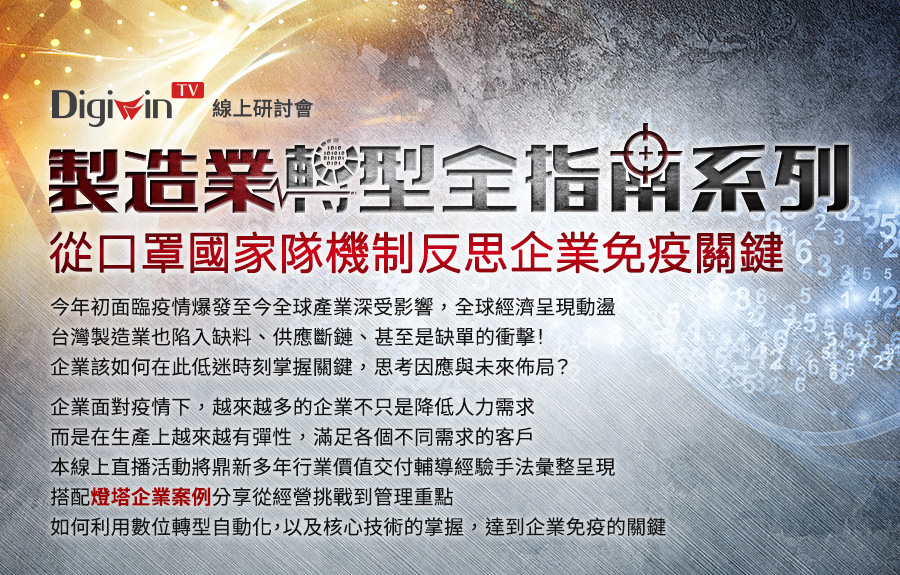
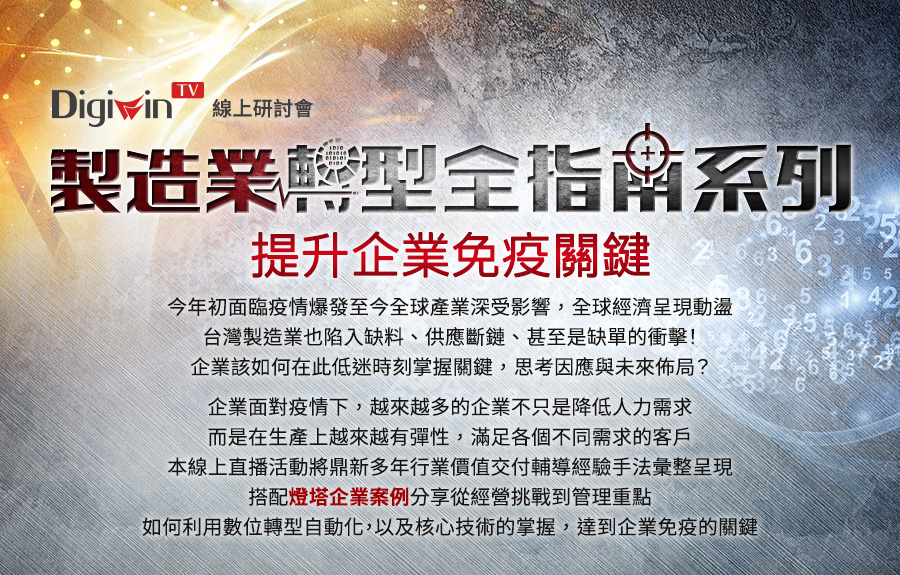
update

Changed region(s): [[0.0311, 0.207, 0.9644, 0.9461], [0.5289, 0.2365, 0.56, 0.2661]]

diff --git a/dsc/activity/MFT/WB003063/WB00306301.html b/dsc/activity/MFT/WB003063/WB00306301.html
@@ -1,7 +1,7 @@
 <html xmlns="http://www.w3.org/1999/xhtml">
 <head>
 <meta http-equiv="Content-Type" content="text/html; charset=utf-8" />
-<title>製造業轉型全指南系列-從口罩國家隊機制反思企業免疫關鍵</title>
+<title>製造業轉型全指南系列-提升企業免疫關鍵</title>
 <style type="text/css">
 body {
 	margin-left: 0px;

diff --git a/dsc/activity/MFT/WB003063/WB00306301_EDM.html b/dsc/activity/MFT/WB003063/WB00306301_EDM.html
@@ -1,7 +1,7 @@
 <html xmlns="http://www.w3.org/1999/xhtml">
 <head>
 <meta http-equiv="Content-Type" content="text/html; charset=utf-8" />
-<title>製造業轉型全指南系列-從口罩國家隊機制反思企業免疫關鍵</title>
+<title>製造業轉型全指南系列-提升企業免疫關鍵</title>
 <style type="text/css">
 body {
 	margin-left: 0px;
